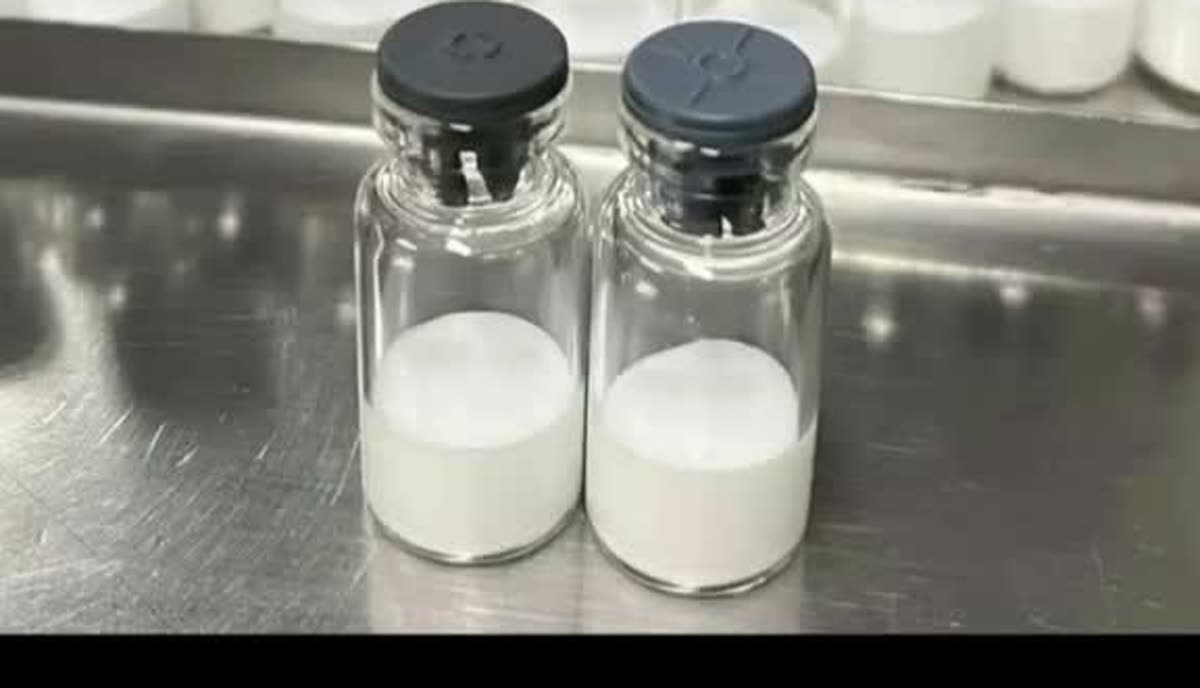
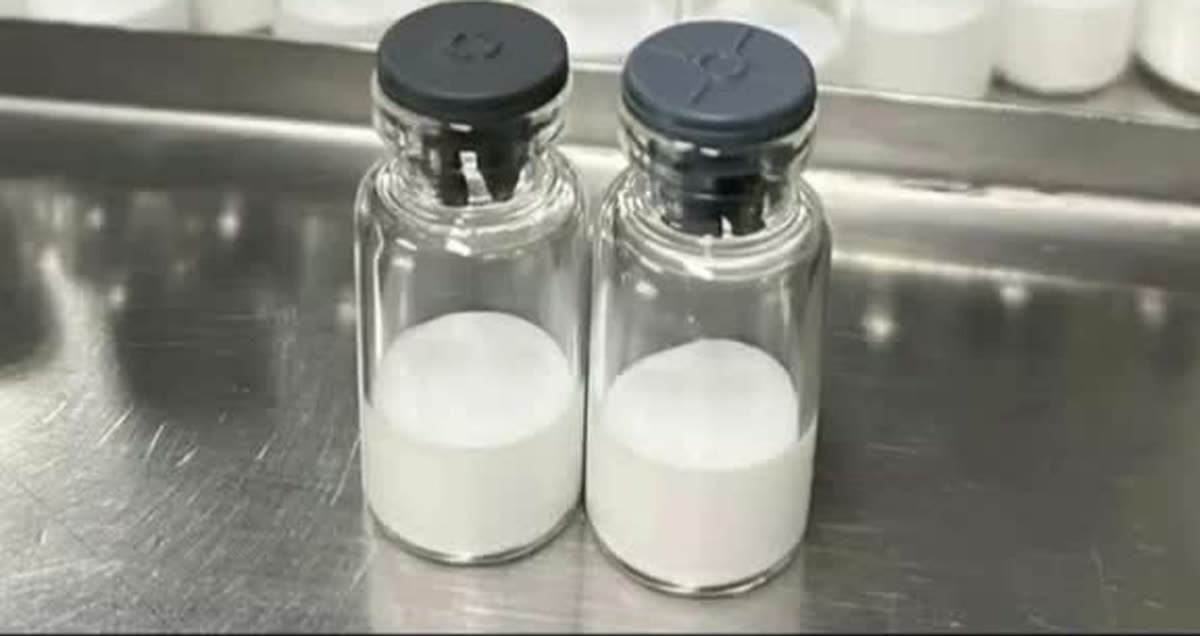
Aviso legal en azul y negro con los pagos dentro; foto de viales limpia y sin franja negra

diff --git a/src/components/layout/Footer.js b/src/components/layout/Footer.js
@@ -1,6 +1,6 @@
 import React from 'react';
 import { Link } from 'react-router-dom';
-import { ShieldCheck, Truck, BadgeCheck, Mail, Phone, Instagram, Facebook } from 'lucide-react';
+import { ShieldCheck, Truck, BadgeCheck, Mail, Phone, Landmark, CreditCard, Bitcoin, Store, Instagram, Facebook } from 'lucide-react';
 import { useLanguage } from '@/context/LanguageContext';
 import { INSTAGRAM_URL, FACEBOOK_URL, WHATSAPP_URL, WHATSAPP_HANDLE } from '@/lib/contact';
 import { FlagMX, FlagUS, WhatsAppIcon } from '@/components/Flags';
@@ -23,9 +23,26 @@ const Footer = () => {
           <span className="flex items-center gap-1.5"><ShieldCheck className="h-3.5 w-3.5 text-[hsl(var(--primary))]" /> {t('header.coa')}</span>
           <span className="flex items-center gap-1.5"><Truck className="h-3.5 w-3.5 text-[hsl(var(--primary))]" /> {t('header.shipping')}</span>
         </div>
-        <p className="text-xs leading-relaxed rounded-lg border border-[hsl(var(--warning-border))] bg-[hsl(var(--warning))] text-[hsl(var(--warning-foreground))] p-3.5 mb-10">
-          <strong>{t('footer.legalTitle')}</strong> {t('footer.legalBody')}
-        </p>
+        {/* El aviso legal y los métodos de pago viven en el MISMO recuadro
+            (Christian, 2026-07-28): "Pagos seguros y protegidos" era una sección
+            aparte y se sentía repetido con el pie. Una sola caja, más corta. */}
+        {/* Azul y negro, no amarillo (Christian, 2026-07-28): el amarillo de
+            advertencia le daba tono de alerta a algo que sólo es informativo, y
+            rompía con la paleta oscura del sitio. Fondo oscuro de la casa, filo
+            azul de marca a la izquierda y el título en azul. */}
+        <div className="rounded-lg border border-border border-l-[3px] border-l-[hsl(var(--primary))] bg-[hsl(var(--secondary))] text-muted-foreground p-3.5 mb-10">
+          <p className="text-xs leading-relaxed">
+            <strong className="text-[hsl(var(--primary))]">{t('footer.legalTitle')}</strong> {t('footer.legalBody')}
+          </p>
+          <div className="flex flex-wrap items-center gap-x-3 gap-y-2 mt-3 pt-3 border-t border-border">
+            <span className="text-[11px] font-semibold text-foreground">{t('footer.paymentsInline')}</span>
+            {[{ i: CreditCard, l: 'Visa · MC · Amex' }, { i: Landmark, l: 'SPEI' }, { i: Store, l: 'OXXO' }, { i: Bitcoin, l: 'Cripto' }].map((p, i) => (
+              <span key={i} className="inline-flex items-center gap-1.5 text-[11px]">
+                <p.i className="h-3.5 w-3.5 text-[hsl(var(--primary))]" /> {p.l}
+              </span>
+            ))}
+          </div>
+        </div>
         <div className="grid grid-cols-1 sm:grid-cols-2 md:grid-cols-3 lg:grid-cols-6 gap-8">
           <div>
             {/* El logo del pie SOLO sube al tope de la página actual (orden de

diff --git a/src/pages/Home.js b/src/pages/Home.js
@@ -780,25 +780,9 @@ const Home = () => {
         </Dialog>
       </section>
 
-      {/* ===== Payments ===== */}
-      {/* pb-10 y no pb-24: abajo viene el pie, que ya trae su propio aire, y
-          juntos dejaban un hueco enorme (Christian, 2026-07-28). Los métodos de
-          pago se enseñan AQUÍ y ya no se repiten en el pie. */}
-      <section className="max-w-[1280px] mx-auto px-4 sm:px-6 lg:px-8 pb-10">
-        <div className="rounded-2xl border border-border bg-card px-6 py-6 flex flex-col sm:flex-row items-center justify-between gap-5">
-          <div>
-            <div className="font-heading font-semibold">{t('home.paymentsTitle')}</div>
-            <div className="text-xs text-muted-foreground mt-0.5">{t('home.paymentsNote')}</div>
-          </div>
-          <div className="flex flex-wrap items-center justify-center gap-2.5">
-            {[{ i: Landmark, l: 'SPEI' }, { i: CreditCard, l: 'Visa · Mastercard · Amex' }, { i: Store, l: 'OXXO' }, { i: Bitcoin, l: 'Cripto' }].map((p, i) => (
-              <span key={i} className="inline-flex items-center gap-1.5 rounded-lg border border-border bg-[hsl(var(--secondary))] px-3 py-2 text-xs font-medium">
-                <p.i className="h-3.5 w-3.5 text-[hsl(var(--primary))]" /> {p.l}
-              </span>
-            ))}
-          </div>
-        </div>
-      </section>
+      {/* La sección "Pagos seguros y protegidos" se ELIMINÓ (Christian,
+          2026-07-28): los métodos de pago ahora viven dentro del recuadro del
+          aviso legal, en el pie. Tenerlos dos veces seguidas se sentía repetido. */}
 
     </div>
   );

diff --git a/src/i18n/es-MX.js b/src/i18n/es-MX.js
@@ -579,7 +579,13 @@ const esMX = {
   'footer.quality': 'Calidad',
   'footer.terms': 'Términos y RUO',
   'footer.legalTitle': 'Aviso legal (RUO):',
-  'footer.legalBody': 'Todos los productos se venden exclusivamente para uso en investigación y desarrollo. No están destinados al consumo humano ni animal, ni para diagnóstico, tratamiento, cura o prevención de enfermedades. Al comprar, el cliente confirma que es un investigador calificado.',
+  // Versión corta, en el tono de Certified (Christian, 2026-07-28): se quitó
+  // "no para consumo humano ni animal", que asustaba, y se conservó el núcleo
+  // RUO —fines informativos, investigación in vitro, sin promesa terapéutica—
+  // que es lo que de verdad protege. Aquí también viven los métodos de pago:
+  // antes tenían su propia sección y se sentía repetido.
+  'footer.legalBody': 'Toda la información y las descripciones de producto de este sitio tienen fines educativos e informativos. Nuestros productos son solo para uso en investigación in vitro y no están destinados a diagnosticar, tratar, curar ni prevenir ninguna enfermedad.',
+  'footer.paymentsInline': 'Pagos seguros:',
   'footer.backToTop': 'Volver arriba',
   'footer.rights': 'Exygen Labs. Todos los derechos reservados.',
   'footer.ruoLine': 'Research Use Only · Solo para investigación',

diff --git a/src/i18n/pt-BR.js b/src/i18n/pt-BR.js
@@ -635,7 +635,8 @@ const ptBR = {
   'footer.quality': 'Qualidade',
   'footer.terms': 'Termos e RUO',
   'footer.legalTitle': 'Aviso legal (RUO):',
-  'footer.legalBody': 'Todos os produtos são vendidos exclusivamente para uso em pesquisa e desenvolvimento. Não são destinados ao consumo humano ou animal, nem para diagnóstico, tratamento, cura ou prevenção de doencas. Ao comprar, o cliente confirma que e um pesquisador qualificado.',
+  'footer.legalBody': 'Todas as informações e descrições de produto deste site têm fins educativos e informativos. Nossos produtos são apenas para uso em pesquisa in vitro e não se destinam a diagnosticar, tratar, curar ou prevenir qualquer doença.',
+  'footer.paymentsInline': 'Pagamentos seguros:',
   'footer.backToTop': 'Voltar ao topo',
   'footer.rights': 'Exygen Labs. Todos os direitos reservados.',
   'footer.ruoLine': 'Research Use Only · Somente para pesquisa',

diff --git a/src/i18n/en-US.js b/src/i18n/en-US.js
@@ -621,7 +621,8 @@ const enUS = {
   'footer.quality': 'Quality',
   'footer.terms': 'Terms and RUO',
   'footer.legalTitle': 'Legal notice (RUO):',
-  'footer.legalBody': 'All products are sold exclusively for research and development use. They are not intended for human or animal consumption, diagnosis, treatment, cure, or disease prevention. By purchasing, the customer confirms they are a qualified researcher.',
+  'footer.legalBody': 'All information and product descriptions on this site are for educational and informational purposes. Our products are for in vitro research use only and are not intended to diagnose, treat, cure or prevent any disease.',
+  'footer.paymentsInline': 'Secure payments:',
   'footer.backToTop': 'Back to top',
   'footer.rights': 'Exygen Labs. All rights reserved.',
   'footer.ruoLine': 'Research Use Only',
